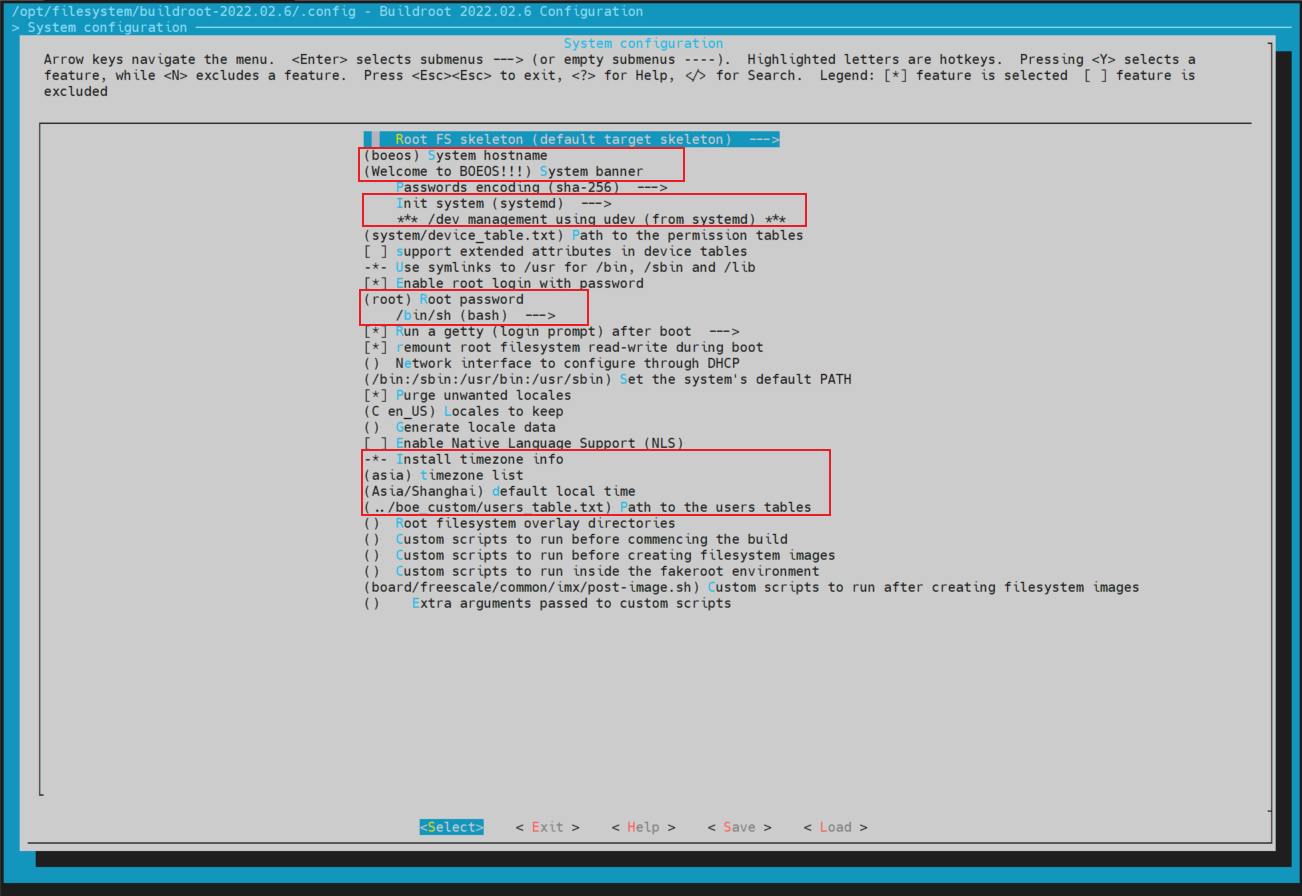
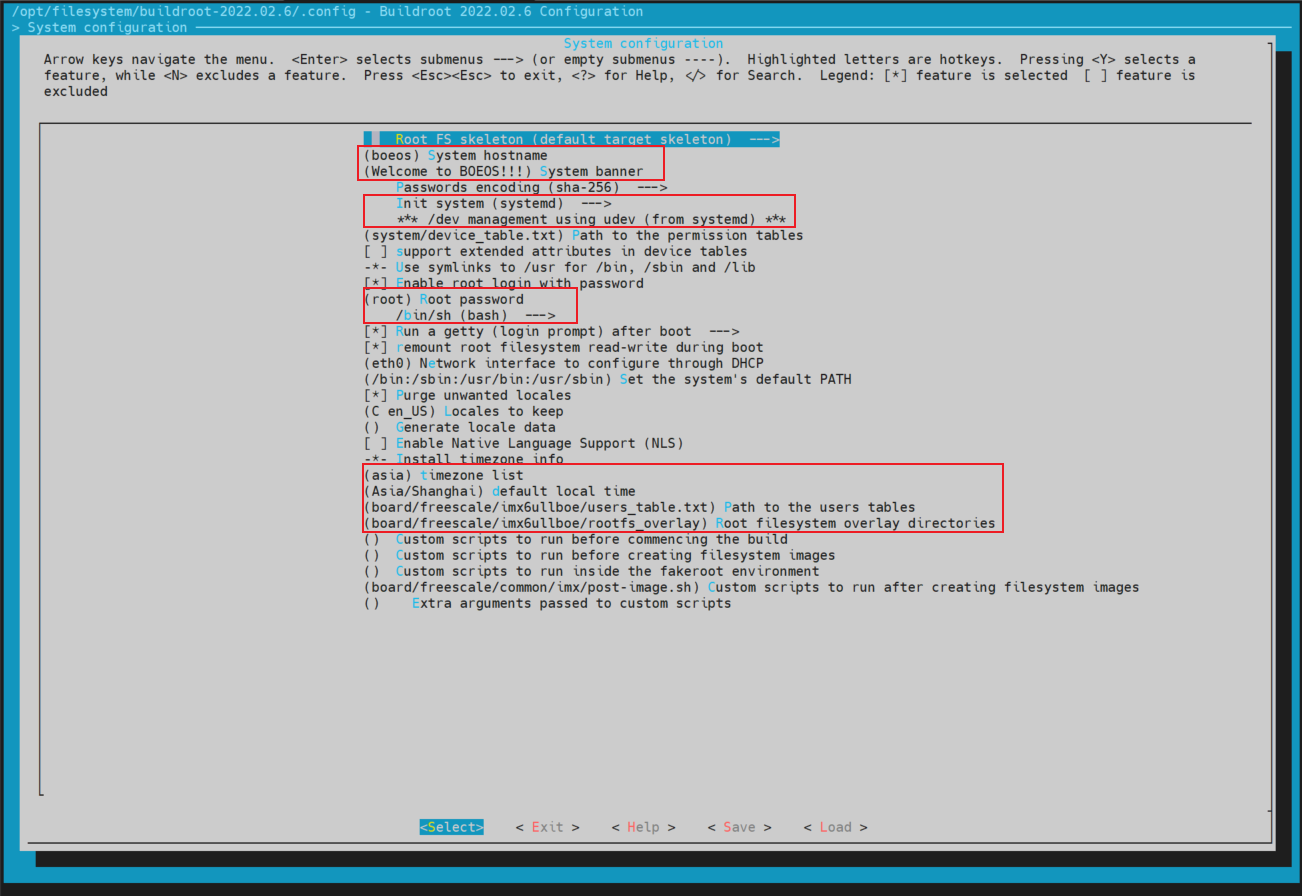
20231114

diff --git a/ARM平台/MX6ULL-CortexA7-armv7a/文件系统制作/buildroot2022.02移植到野火imx6ull开发板.md b/ARM平台/MX6ULL-CortexA7-armv7a/文件系统制作/buildroot2022.02移植到野火imx6ull开发板.md
@@ -31,11 +31,17 @@ do so (now or later) by using -b with the checkout command again. Example:
 
 ```
 
-## 2. buildroot 源码的配置
-### 2.1 创建自己的 buildroot 配置
+## 2. buildroot 添加板级文件
+1. 在 `board/freescale/` 目录下复制一份 `imx6ullevk` 目录，并重命名为 `imx6ullboe` ；
+2. 在 `imx6ullboe` 中创建一个覆写文件夹，命名为 `rootfs_overlay` ，并根据需求将需要覆写的文件添加到该文件夹中。注意该文件作用在完成根文件系统的 `output/target` 文件后，打包文件系统镜像前，作用是覆写文件系统的文件，如果与 buildroot 创建的系统文件重名，会覆盖掉同名系统文件；
+3. 在 `imx6ullboe` 中创建一个多用户表，命名为 `users_table.txt` ，用于创建非 root 账户、密码以及登录权限等。
+    ![新建自定义的board目录](png/新建自定义的board目录.png)
+
+## 3. buildroot 源码的配置
+### 3.1 创建自己的 buildroot 配置
 将 `configs/` 目录下的 `imx6ullevk_defconfig` 复制一份，然后修改为 `imx6ullboe_defconfig` ，便于保存自己的配置。
 
-### 2.2 修改 buildroot 配置
+### 3.2 修改 buildroot 配置
 1. 在 buildroot 主目录下，使用 `make imx6ullboe_defconfig` 命令将 defconfig 的配置导出，在主目录生成 `.config` 文件。
     ![buildroot导入defconfig](png/buildroot导入defconfig.png)
 
@@ -62,6 +68,7 @@ do so (now or later) by using -b with the checkout command again. Example:
         - `default local time`，为默认时区，设置系统的默认时区，这里设置为亚洲上海，为东八区CST时间。系统烧写完成后，可以使用 `timedatectl` 命令查看当前系统的时间详细信息，其中包含当前设置的时区。
         - `Path to the users tables` ，用于指定多用户表的路径，用于生成多用户的文件系统。
         ![System_configuration](png/System_configuration.png)
+        - `Root filesystem overlay directories` ，用于指定覆盖文件的路径，可以在该指定的目录下按照 `Linux` 根目录形式创建自己的文件，如需要添加一个 `/etc/profile` ，可以在目录下创建一个 `etc` 目录，在目录中新建一个 profile 文件，如果新建文件与原系统文件冲突，则新建文件会覆盖掉原系统文件。
     
     - ` Kernel  --->` :  
     用于指定编译内核版本，这里我们不使用 buildroot 编译内核，所以不使能 `Linux Kernel` 选项。
@@ -87,13 +94,13 @@ do so (now or later) by using -b with the checkout command again. Example:
 
 3. 在 buildroot 主目录下，使用 `make savedefconfig` 命令将 `.config` 配置保存到 `imx6ullboe_defconfig` 文件，可以备份到其他文件中。
 
-### 2.3 编译 buildroot 镜像文件
+### 3.3 编译 buildroot 镜像文件
 1. 在 buildroot 主目录下，使用 `make` 命令编译 buildroot 镜像文件。
     ![编译buildroot文件系统镜像](png/编译buildroot文件系统镜像.png)
 
 2. 编译完成后，在 `output/images` 目录下，会生成 `rootfs.tar.bz2` 文件，该文件为 buildroot 镜像文件。
 
-### 2.4 烧写 uboot 镜像文件
+### 3.4 烧写 uboot 镜像文件
 使用 mfgtools 将文件系统烧写到开发板。烧写后启动的系统展示如下：
 - `banner` 欢迎语展示：
     ![欢迎语展示](png/欢迎语展示.png)

diff --git a/Linux/Filesystem文件系统/Buildroot/buildroot增加中文支持.md b/Linux/Filesystem文件系统/Buildroot/buildroot增加中文支持.md
@@ -1,0 +1,41 @@
+# Buildroot 增加中文支持
+在使用 buildroot 编译 arm 镜像时，默认是不支持中文的，且无法输入中文字符，需要修改 buildroot 中的配置，增加中文支持。
+![buildroot默认不支持中文](png/buildroot默认不支持中文.png)
+
+## 1. Buildroot 镜像修改
+
+### 1.1 修改 busybox 配置
+1. 使用 `make ARCH=arm CROSS_COMPILE=arm-linux-gnueabihf- busybox-menuconfig` 命令修改 buildroot 中的 busybox 配置。
+
+2. 选择进入 ` Settings  --->` 菜单栏，拉到菜单栏最后找到并选择上 `[ ] Support Unicode` 选项，修改红色框出的部分选择：
+
+    ![busybox配置中文支持](png/busybox配置中文支持.png)
+    其中
+    - `[*]   Check $LC_ALL, $LC_CTYPE and $LANG environment variables` :  (`CONFIG_FEATURE_CHECK_UNICODE_IN_ENV`)：启用此选项后，只有与区域设置相关的变量的值为“xxxx.utf8”时，才会激活Unicode支持。否则，Unicode支持将始终处于启用状态。
+    - `(0)   Range of supported Unicode characters` :  
+    (`CONFIG_LAST_SUPPORTED_WCHAR`)：任何Unicode值大于此值的字符都被认为在输出设备上不可打印。许多小程序用替换字符替换这些字符。其想法是，许多有效的可打印Unicode字符仍然无法正确显示。想想把几十种古代文字中的字符字符、双宽象形文字、晦涩字符结合起来。。。许多终端、终端模拟器、xterm等将无法正确处理它们。选择适合您需求的最小值。  
+    0-off时，将打印任何有效的可打印Unicode字符。
+    - `[*]   Allow wide Unicode characters on output`：  
+    (`CONFIG_UNICODE_WIDE_WCHARS`)：禁用此选项后，任何宽度>1的Unicode字符都将在输出中被替换。
+
+### 1.2 在 /etc/profile 中修改环境变量
+修改`board/freescale/imx6ullboe/rootfs_overlay` overlay 目录中的 `/etc/profile` 文件，在文件末尾添加如下内容：
+```bash
+export LANG=zh_CN.UTF-8
+export LC_CTYPE=zh_CN.UTF-8
+```
+
+### 1.3 重新编译 buildroot 镜像
+为保险性，在编译之前，先执行 `make clean` 命令清除之前编译生成的文件。
+
+## 2. 烧写并测试镜像
+使用工具烧写镜像到开发板，并测试是否支持中文。
+
+这里在 Windows 中创建一个 `UTF-8` 格式的文本文档，用 ssh 传输到开发板中：
+![busybox配置中文支持烧写测试](png/busybox配置中文支持烧写测试.png)
+图中展示的结果表明：
+- 使用 ls 命令时，中文文件名已经可以显示；
+- 可以使用中文输入法输入中文字符；
+- 可以正常显示中文文档的中文内容。
+
+

diff --git a/Linux/Filesystem文件系统/Buildroot/buildroot常用编译命令.md b/Linux/Filesystem文件系统/Buildroot/buildroot常用编译命令.md
@@ -1,0 +1,46 @@
+# buildroot 常用编译命令
+
+## 1、图形化配置
+```bash
+make nuvoton_nuc980_iot_defconfig   使用开发板defconfig
+make menuconfig                     进入buildroot配置界面
+make savedefconfig                  保存defconfig
+```
+
+## 2、内核配置
+```bash
+make linux-menuconfig           进入Linux内核配置界面
+make linux-savedefconfig        保存配置
+make linux-update-defconfig     向Buildroot更新配置
+make linux-rebuild              重新编译内核
+```
+
+## 3、Busybox配置
+```bash
+make busybox-menuconfig           配置busybox
+make busybox-update-config        更新busybox配置文件到package
+make busybox-rebuild              重新编译busybox
+```
+
+## 4、uboot配置
+```bash
+make uboot-menuconfig            配置uboot
+make uboot-savedefconfig         保存配置
+make uboot-update-defconfig      更新配置到buildroot包
+```
+
+## 5、单独编译模块
+```bash
+make 模块名
+```
+
+## 6、编译中出现github链接失败，编译失败。比较头疼。使用局域网一台windows电脑运行梯子工具，在开发机设置代理
+```bash
+export http_proxy="http://192.168.0.199:4780/"
+export https_proxy="http://192.168.0.199:4780/"
+```
+
+## 7、烧录SD卡后将根分区扩充至最大
+```bash
+resize2fs /dev/mmcblk1p1
+```

diff --git a/Linux/发行版Linux的相关技巧/Linux串口终端输入长命令导致覆盖行首问题.md b/Linux/发行版Linux的相关技巧/Linux串口终端输入长命令导致覆盖行首问题.md
@@ -1,0 +1,30 @@
+# Linux 串口终端输入长命令导致覆盖行首问题
+
+## 错误原因
+
+由于登录 tty 设备的的终端窗口大小和tty设置的行列不一致导致，修复了方法就是想办法让他们两个一致。
+    ![覆盖首行的问题](png/覆盖首行的问题.png)
+
+
+## 临时解决方法
+在 `/etc/profile` 中设置并导出一个合理的终端大小：
+```bash
+# 片尾加入
+COLUMNS=162;LINES=55;export COLUMNS LINES;
+```
+
+## 永久解决方法
+1. resize 命令
+    
+    使用 `resize` 命令的输出，这个命令的功能就是重设终端的长宽参数到当前窗口大小，man 手册看一下 `resize` 命令：
+    ![resize命令](png/resize命令.png)
+
+2. 使用方法
+
+    在 `/etc/profile` 中最后命令操作就可以解决了：
+    ```bash
+    resize
+    ```
+
+3. 重启后会发现系统会自动重设终端的长宽到当前窗口大小，问题解决：
+    ![resize命令起作用](png/resize命令起作用.png)

diff --git a/Linux/发行版Linux的相关技巧/Linux命令行只显示#.md b/Linux/发行版Linux的相关技巧/Linux命令行只显示#.md
@@ -4,7 +4,7 @@
 
 当命令行只显示 # 而没有显示路径和用户信息时，通常是由于缺少 PS1 环境变量导致的。PS1 环境变量定义了命令行提示符的格式。
 
-## 解决方法
+## 临时解决方法
 要解决这个问题，你可以尝试以下几个步骤：
 
 1. 检查是否存在 PS1 环境变量。可以在命令行中输入 `echo $PS1` 来查看。如果没有输出或输出为空，则说明 PS1 环境变量不存在。
@@ -30,3 +30,9 @@
     安装完成后，重新启动终端，应该能够看到正确的命令行提示符。
 
 如果以上步骤都没有解决问题，可能需要进一步检查系统配置或寻求更详细的帮助。
+
+## 永久解决方法
+`PS1` 是 shell 的主命令行交互提示符，一般定义在 `/etc/profile` 文件中，可以将该文件最后一行手动中定义的环境变量 `PS1` 修改为 `"\u@\h:\w\$ "` 。
+```bash
+export PS1='[\u@\h: \w]\$ '
+```

diff --git a/ARM平台/MX6ULL-CortexA7-armv7a/文件系统制作/buildroot需要添加的库.md b/ARM平台/MX6ULL-CortexA7-armv7a/文件系统制作/buildroot需要添加的库.md
@@ -1,0 +1,12 @@
+# imx6ull 移植 buildroot-2022.02
+
+## 1. 网络
+### 1.1 ssh 远程协议
+选择：openssh
+其他同类库： libssh 、 libssh2 、 tinyssh 等。
+
+### 1.2 网络协议栈
+
+### 1.3 网络检测工具
+- ethtool ：一个用于检查和调整基于以太网的网络接口的小工具。  
+    - 使用方法： `ethtool <eth0>` ；

diff --git a/Linux/发行版Linux的相关技巧/Ubuntu网络相关问题.md b/Linux/发行版Linux的相关技巧/Ubuntu网络相关问题.md
@@ -1,5 +1,8 @@
 # 网络问题总结
 
+## 静态 IP 设置
+
+
 ## 不自动识别网络
 
 ### 问题描述：虚拟机安装成功后，开机不自动识别网络IP地址，使用 ifconfig 指令只有 172.0.0.1 这个网址

diff --git a/Linux/发行版Linux的相关技巧/不同发行版静态IP设置.md b/Linux/发行版Linux的相关技巧/不同发行版静态IP设置.md
@@ -1,0 +1,3 @@
+# 不同发行版静态IP设置
+
+## 1. systemV 启动的系统
